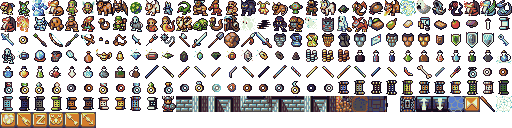
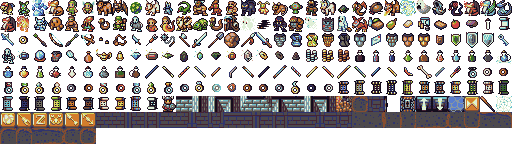
port: DawnLike floor and corridor autotiles from the real level
mkdawn.py reads the DawnLike sheets by name (dawnlike_names.tsv from
$RVIP_TILESETS) and appends the 16 bordered variants of night tile floor
and night dirt floor (slot base+mask, n8 s4 w2 e1). tiles.c borders a
floor/corridor cell on each side whose dun[] neighbour is another kind
(stairs, traps, pools = room floor; doors match both).

Claude-Session: https://claude.ai/code/session_01CDvEJ3TY3b1gcQmyBmnZP2

diff --git a/port/mkdawn.py b/port/mkdawn.py
@@ -8,21 +8,37 @@ DawnLike; names MAG shares with the atlas map directly, the rest take a
 stand-in from the same set (hand table below). Writes
   port/tiles-dawn.png   32 sprites per row, 16x16
   port/tiles.h          slot tables for tiles.c
-and prints the coverage numbers. Run: python3 port/mkdawn.py [atlas dir]
-(default $DAWNLIKE_ATLAS or ~/tools/DawnLikeAtlas)."""
+and prints the coverage numbers. Run: python3 port/mkdawn.py [tilesets dir]
+(default $RVIP_TILESETS or ~/Games/rvip-tools/tilesets). Also writes
+  port/tiles-dawn-1.png  DawnLike's second animation frame, same slots"""
 import os, re, sys
 from PIL import Image
 
 HERE = os.path.dirname(os.path.abspath(__file__))
-ATLAS = sys.argv[1] if len(sys.argv) > 1 else os.environ.get(
-    'DAWNLIKE_ATLAS', os.path.expanduser('~/tools/DawnLikeAtlas'))
-REN = os.path.join(ATLAS, 'renamed')
-FILES = {}
-for f in sorted(os.listdir(REN)):
-    m = re.fullmatch(r'(.+?)(_0)?\.png', f)
-    if m and not re.search(r'_\d$', m.group(1)):
-        FILES.setdefault(m.group(1), f)     # frame 0 of animated sprites
-NAMES = set(FILES)
+# sprites by name: dawnlike_names.tsv (name, frame, sheet, col, row) next to
+# the original DawnLike sheets, from rvip-tools/tilesets (dawnlike_index.py
+# made it from DawnLikeAtlas); override the folder with $RVIP_TILESETS
+TS = sys.argv[1] if len(sys.argv) > 1 else os.environ.get(
+    'RVIP_TILESETS', os.path.expanduser('~/Games/rvip-tools/tilesets'))
+POS = {}
+for line in open(os.path.join(TS, 'dawnlike_names.tsv')).read().splitlines()[1:]:
+    n, fr, sheet, c, r = line.split('\t')
+    if fr == '0':
+        POS.setdefault(n, (sheet, int(c), int(r)))
+# atlas names from sheets dawnlike_names.tsv skips (Commissions/)
+POS.setdefault('warrior s', ('Commissions/Warrior.png', 0, 0))
+NAMES = set(POS)
+_sheets = {}
+def crop(sheet, c, r):
+    if sheet not in _sheets:
+        _sheets[sheet] = Image.open(os.path.join(TS, 'DawnLike', sheet)).convert('RGBA')
+    return _sheets[sheet].crop((c * 16, r * 16, c * 16 + 16, r * 16 + 16))
+def sprite(name, frame=0):
+    """frame 1: the same cell of DawnLike's <sheet>1.png where it has one"""
+    sheet, c, r = POS[name]
+    if frame and sheet.endswith('0.png') and os.path.exists(os.path.join(TS, 'DawnLike', sheet[:-5] + '1.png')):
+        sheet = sheet[:-5] + '1.png'
+    return crop(sheet, c, r)
 
 
 def src(path):
@@ -99,7 +115,7 @@ TRAPS = ['webbing a', 'magic trap tile', 'rolling boulder trap tile', 'small rot
 
 slots, index = [], {}
 def slot(name):
-    assert name in NAMES, 'not in DawnLikeAtlas: ' + name
+    assert name in NAMES, 'no DawnLike sprite named: ' + name
     if name not in index:
         index[name] = len(slots)
         slots.append(name)
@@ -142,13 +158,25 @@ ring_t = appearance(FRING, 'ring', r'[a-z ]+ ring')
 scr_t = appearance(FSCROLL, 'scroll', r'(ancient|mystery|dusty) [a-z]+ scroll')
 feat_t = {k: slot(v) for k, v in FEAT.items()}
 trap_t = [slot(n) for n in TRAPS]
+# autotiled floors (tiles.c): slot base+m is bordered on the sides of mask m
+# (n8 s4 w2 e1), 'c' = no border, base+15 = 'nswe'
+def autotile(style):
+    base = len(slots)
+    for m in range(16):
+        n = style + ' ' + (''.join(c for b, c in ((8, 'n'), (4, 's'), (2, 'w'), (1, 'e')) if m & b) or 'c')
+        assert n in NAMES, n
+        slots.append(n)
+    return base
+feat_t['FLOORS'] = autotile('night tile floor')
+feat_t['CORRS'] = autotile('night dirt floor')
 
 # ---- the sheet ------------------------------------------------------------
 N = len(slots)
-img = Image.new('RGBA', (32 * 16, (N + 31) // 32 * 16), (0, 0, 0, 0))
-for i, n in enumerate(slots):
-    img.paste(Image.open(os.path.join(REN, FILES[n])).convert('RGBA'), ((i % 32) * 16, (i // 32) * 16))
-img.save(os.path.join(HERE, 'tiles-dawn.png'))
+for fr, out in ((0, 'tiles-dawn.png'), (1, 'tiles-dawn-1.png')):
+    img = Image.new('RGBA', (32 * 16, (N + 31) // 32 * 16), (0, 0, 0, 0))
+    for i, n in enumerate(slots):
+        img.paste(sprite(n, fr), ((i % 32) * 16, (i // 32) * 16))
+    img.save(os.path.join(HERE, out))
 
 def arr(name, a):
     return 'static const short %s[%d] = {%s};' % (name, len(a), ','.join(map(str, a)))

diff --git a/port/tiles.c b/port/tiles.c
@@ -125,12 +125,69 @@ by_letter(int ch)
 }
 
 /*
+ * DawnLike floors are autotiles (RVIP finetuning): a room floor or corridor
+ * cell is bordered on each orthogonal side whose neighbour on the real level
+ * (dun[], not what the player has seen) is not the same floor kind. Stairs,
+ * traps and pools count as room floor, a visible door as either kind; a
+ * secret door still reads as wall. Things lying on a cell don't change dun[].
+ */
+static int
+floor_kind(int l, int c)
+{
+	DUNGEON *d;
+
+	if (l < 0 || l >= LINES || c < 0 || c >= COLUMNS)
+		return 0;
+	d = &dun[l][c];
+	switch (d->d_what) {
+	case FLOOR: case UPSTAIR: case DNSTAIR: case TRAPC: case POOL:
+		return 1;
+	case CORRIDOR:
+		return 2;
+	case DOORC:
+		return 3;	/* matches both */
+	}
+	return 0;
+}
+
+static int
+autotile(int t, int l, int c)
+{
+	static const int dl[4] = { -1, 1, 0, 0 }, dc[4] = { 0, 0, -1, 1 };
+	int k, m = 0, i, n;
+
+	if (t == TL_FLOOR)
+		k = 1;
+	else if (t == TL_CORRIDOR)
+		k = 2;
+	else
+		return t;
+	for (i = 0; i < 4; i++) {
+		n = floor_kind(l + dl[i], c + dc[i]);
+		if (n != k && n != 3)
+			m |= 8 >> i;	/* n8 s4 w2 e1 */
+	}
+	return (k == 1 ? TL_FLOORS : TL_CORRS) + m;
+}
+
+static int tile_raw(int l, int c, int *under);
+
+int
+tile_for(int l, int c, int *under)
+{
+	int t = tile_raw(l, c, under);
+
+	*under = autotile(*under, l, c);
+	return autotile(t, l, c);
+}
+
+/*
  * Sprite for map line l, column c (1..LINES-2); *under gets the terrain
  * to draw first (or -1). Returns -2 for an empty (black) cell and -1 for
  * a cell drawn as text.
  */
-int
-tile_for(int l, int c, int *under)
+static int
+tile_raw(int l, int c, int *under)
 {
 	DUNGEON *d = &dun[l][c];
 	int ch = (unsigned char)optscr[0][l][c], t;

diff --git a/port/tiles.h b/port/tiles.h
@@ -1,5 +1,5 @@
 /* generated by mkdawn.py from DawnLikeAtlas (DawnLike by DragonDePlatino, CC BY 4.0) */
-#define NTILES 230
+#define NTILES 262
 #define TILES_PER_ROW 32
 static const short mon_tile[55] = {0,1,2,3,4,5,6,7,8,9,10,11,12,13,14,15,16,17,18,19,20,21,22,23,24,25,26,27,28,29,30,31,32,33,34,35,36,37,38,39,40,41,42,43,44,45,46,47,48,49,50,51,52,53,54};
 static const short obj_tile[151] = {55,56,57,58,59,60,61,62,62,62,62,62,62,62,62,62,62,62,62,62,62,62,62,62,62,62,62,63,63,63,63,63,63,63,63,63,63,63,63,63,63,63,63,63,63,63,63,63,64,64,64,64,64,64,64,64,64,64,64,64,64,64,64,64,64,64,64,64,64,65,65,65,65,65,65,65,65,65,65,65,65,65,65,65,65,65,65,65,65,65,65,65,65,65,66,67,68,69,70,71,72,73,74,75,76,77,78,79,80,81,82,83,84,85,86,87,88,89,90,91,92,93,94,95,95,95,96,97,98,99,100,101,102,62,103,104,105,106,97,107,108,109,110,111,112,113,114,115,116,117,115};
@@ -29,3 +29,5 @@ static const short trap_tile[9] = {223,221,224,21,225,226,227,228,229};
 #define TL_POOL 220
 #define TL_TRAP 221
 #define TL_STAFF 222
+#define TL_FLOORS 230
+#define TL_CORRS 246
